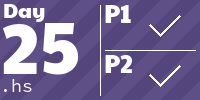
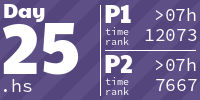
2024, day 25

diff --git a/README.md b/README.md
@@ -10,10 +10,10 @@ according to r/adventofcode when my own solution was much less efficient.
 
 <!-- AOC TILES BEGIN -->
 <h1 align="center">
-  Advent of Code - 498/500 ⭐
+  Advent of Code - 500/500 ⭐
 </h1>
 <h1 align="center">
-  2024 - 48 ⭐ - Haskell
+  2024 - 50 ⭐ - Haskell
 </h1>
 <a href="2024/days/Day1.hs">
   <img src=".aoc_tiles/tiles/2024/01.png" width="161px">
@@ -86,6 +86,9 @@ according to r/adventofcode when my own solution was much less efficient.
 </a>
 <a href="2024/days/Day24.hs">
   <img src=".aoc_tiles/tiles/2024/24.png" width="161px">
+</a>
+<a href="2024/days/Day25.hs">
+  <img src=".aoc_tiles/tiles/2024/25.png" width="161px">
 </a>
 <h1 align="center">
   2023 - 50 ⭐ - Haskell
